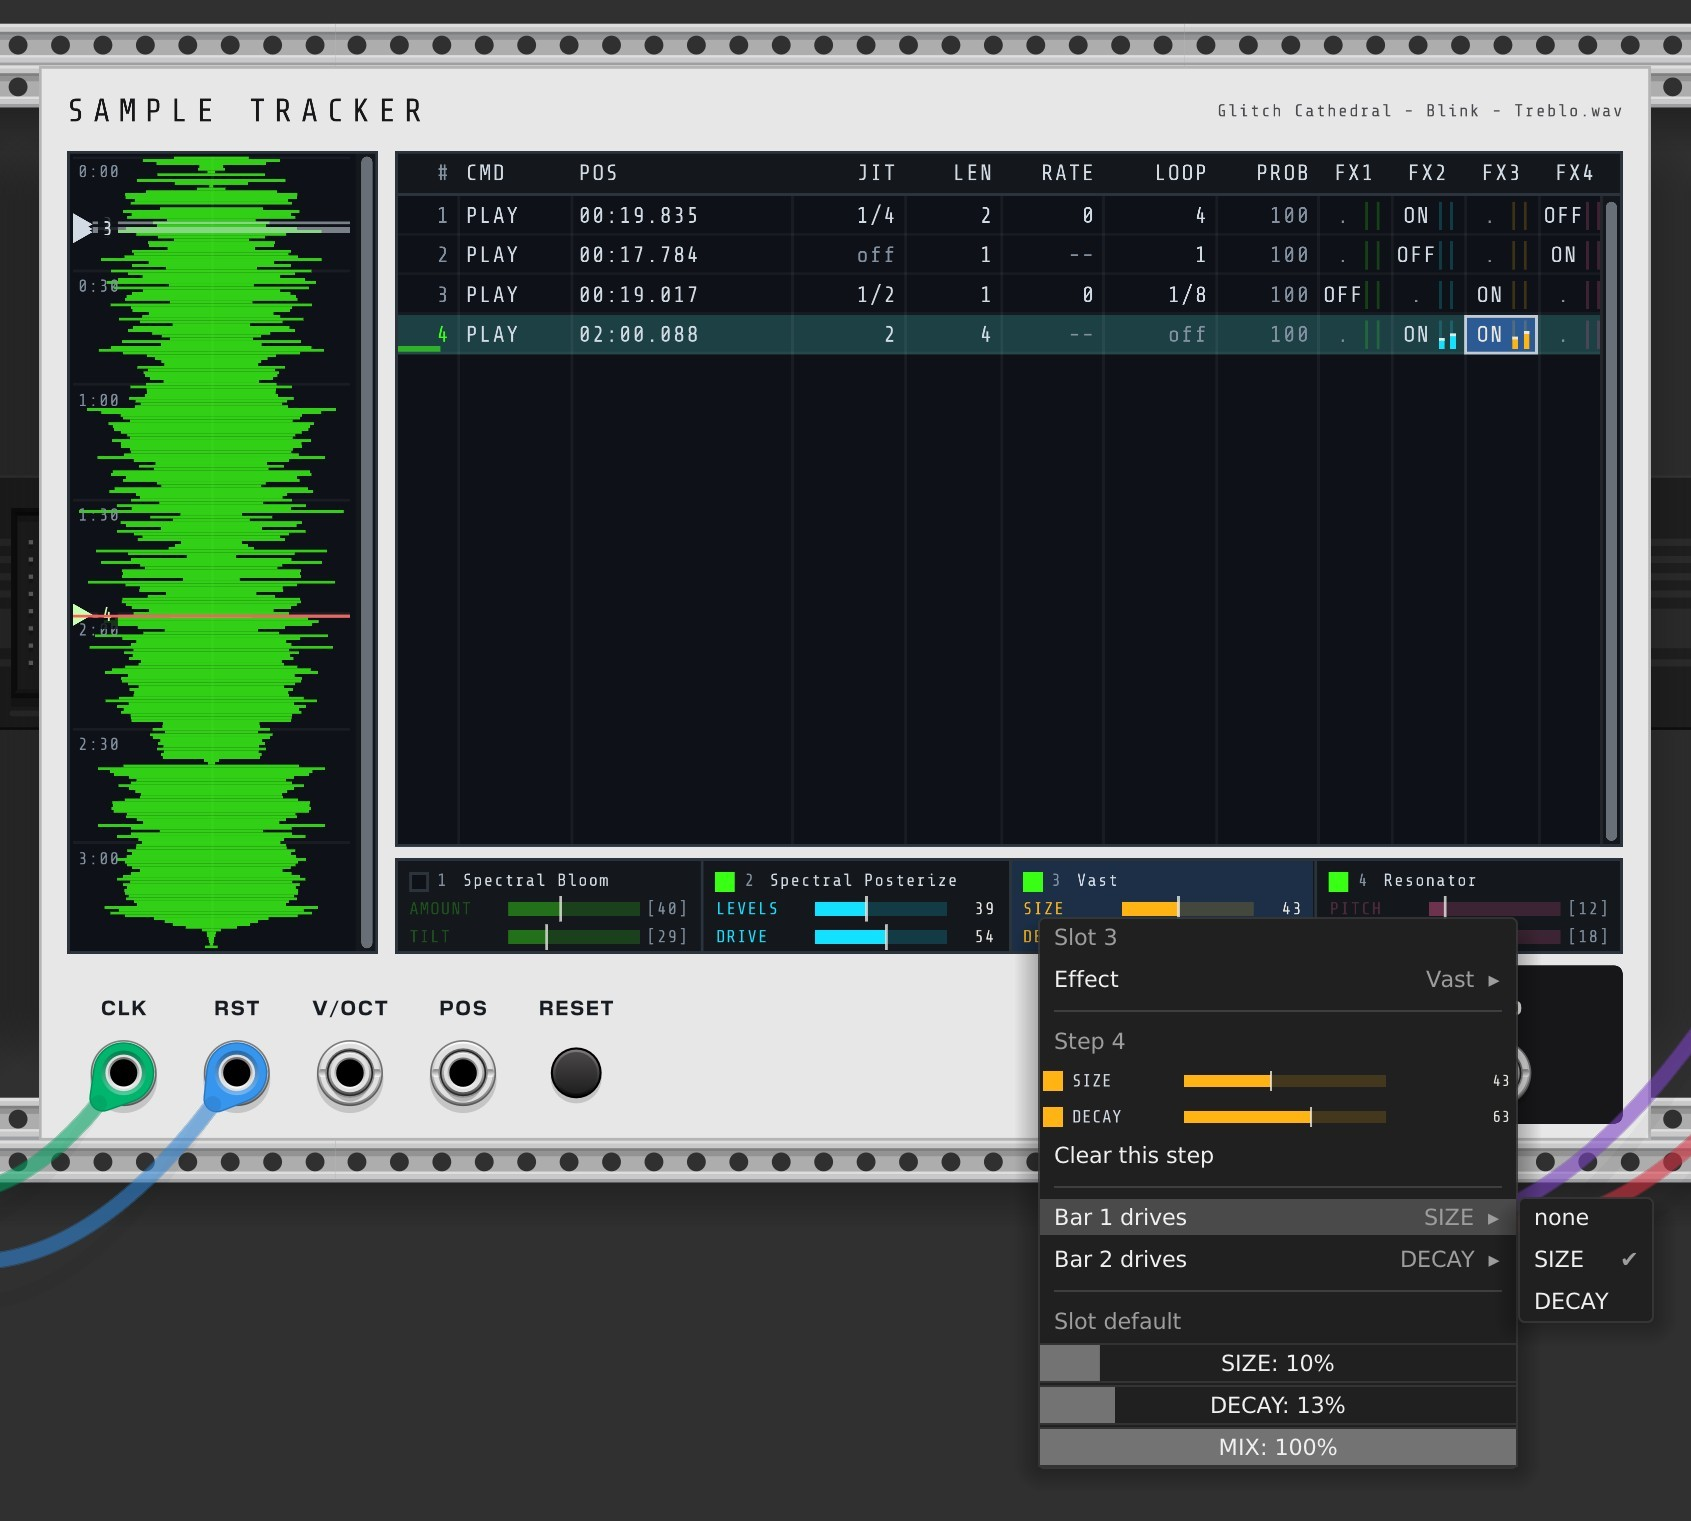
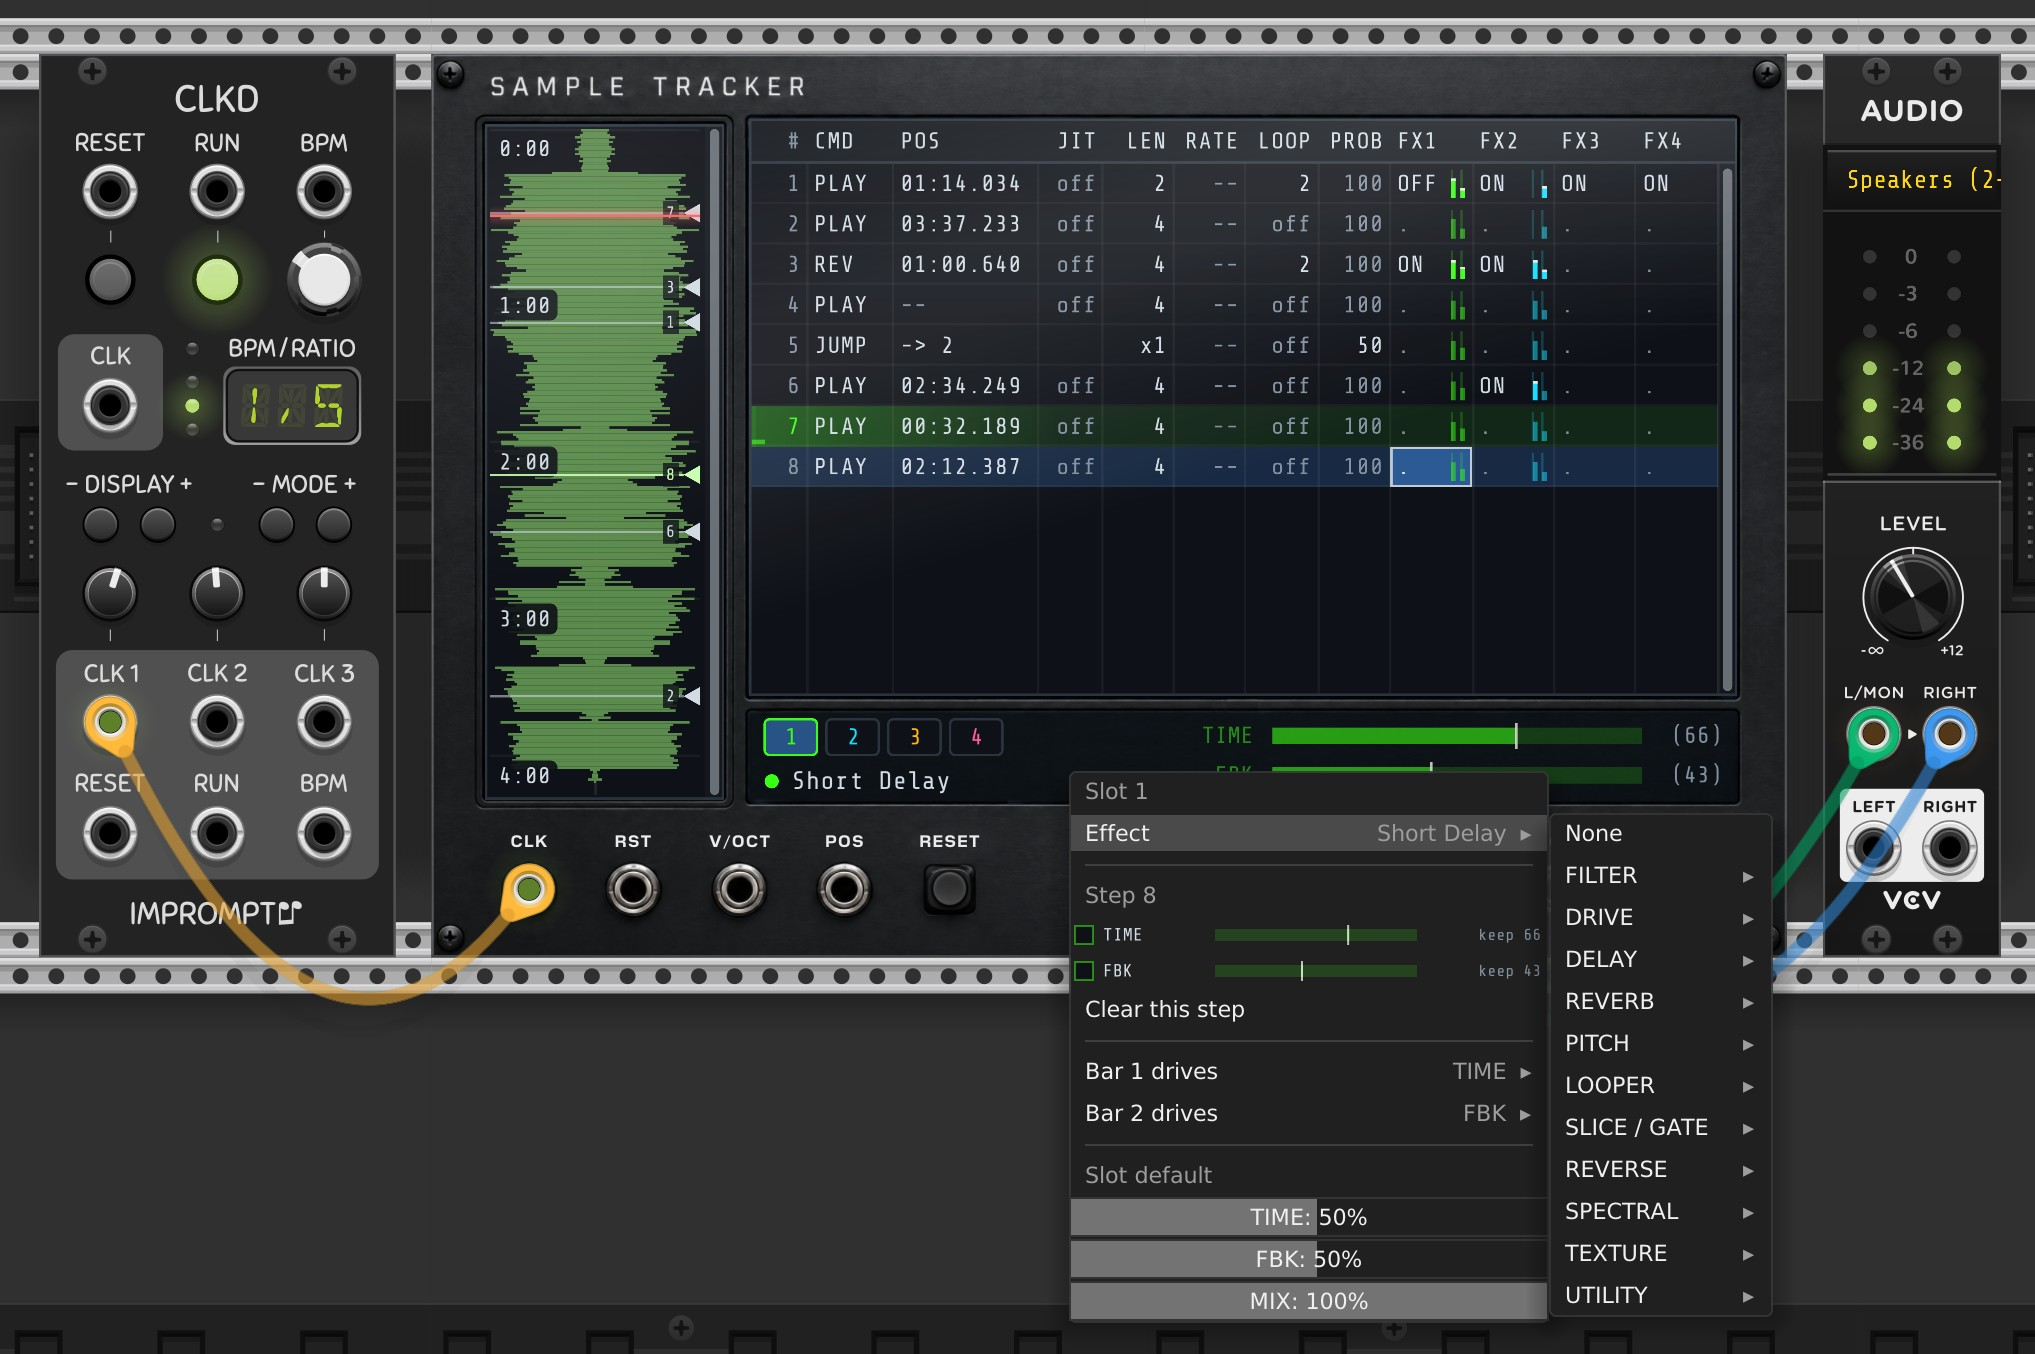
Sample Tracker: new screenshots and the effects strip; Wyrm: poly input, Voices, keyboard, arpeggiator

diff --git a/docs/modules/wyrm/user_manual.md b/docs/modules/wyrm/user_manual.md
@@ -83,8 +83,8 @@ Which tab is showing is not saved with the patch. Wyrm opens on the Oscillators 
 
 The jacks run along the bottom of the panel. They never hide.
 
-- **V/OCT**: pitch, 1 volt per octave. `0 V` plays middle C. Reads one channel.
-- **GATE**: starts a note when the voltage rises above `1 V`. Releases it when the voltage falls below `0.1 V`. Reads one channel.
+- **V/OCT**: pitch, 1 volt per octave. `0 V` plays middle C. Polyphonic: each channel pairs with the same channel of GATE.
+- **GATE**: starts a note when the voltage rises above `1 V`. Releases it when the voltage falls below `0.1 V`. Polyphonic: the number of channels on this cable is the number of notes Wyrm plays.
 - **CV 1** to **CV 4**: four modulation inputs. They do nothing until you route them in the Mod Matrix.
 - **CLOCK**: a tempo input. One pulse is one quarter note.
 - **RESET**: re-aligns every modulator.
@@ -110,7 +110,9 @@ Right-click anywhere on the panel to reach Rack's context menu.
 
 Patch a pitch source into **V/OCT** and a gate into **GATE**.
 
-Wyrm reads the first channel of both jacks. A polyphonic cable from a MIDI-CV module plays one note, not six. The eight internal voices are not Rack's polyphony. They exist so a released note can finish fading under the next one.
+Both jacks are polyphonic. A polyphonic cable from a MIDI-CV module plays chords: the GATE cable's channel count sets how many notes Wyrm reads, and V/OCT follows it channel for channel. A mono V/OCT cable feeds every channel. Up to six notes sound at once, or fewer if you lower the **Voices** setting on the Performance tab. The eight internal voices are not Rack's polyphony; the two spares let a released note finish fading under the next one.
+
+You can also play from the keyboard on the Performance tab. Click a key to play it, drag for a glissando, and Shift-click keys to build a chord of up to eight notes that stays held until a plain click clears it. The keyboard plays alongside the jacks.
 
 ### Voice modes
 
@@ -118,11 +120,13 @@ Set the mode with the **VOICE** select in the jack row, or on the Performance ta
 
 | Mode | What it does |
 |---|---|
-| `poly` | Up to six notes sound at once. One gate jack can only start one at a time, so in Rack this mostly lengthens the overlap between notes. |
-| `mono` | One note at a time. Each gate re-articulates the envelopes. |
-| `legato` | One note at a time. A new note under a held gate does not re-articulate. |
+| `poly` | Up to six notes sound at once, from a polyphonic cable, the keyboard chord, or both. |
+| `mono` | One note at a time, the newest. Releasing it falls back to the newest note still held and re-articulates there. |
+| `legato` | One note at a time, the newest. A new note under a held note slides instead of re-articulating, and so does the fall-back. |
 
 Changing the mode stops every sounding note.
+
+**Voices**, under the mode on the Performance tab, caps how many notes sound at once, from 1 to 6. Release tails count toward the cap, so a lower setting bounds the CPU Wyrm uses. Lowering it while notes sound fades the surplus out.
 
 ### Glide
 
@@ -444,9 +448,20 @@ The limit is the bus, not the source. Voltages are clamped at `±10 V`. A source
 
 ## The Performance tab
 
-**Voice** sets the voice mode. It is the same control as the VOICE select in the jack row.
+**Glide**: **Rising Time** and **Falling Time** set the glide, as described under "Playing" above. Each has three shape buttons beside it for its curve.
 
-**Rising Time** and **Falling Time** set the glide, as described under "Playing" above. Each has a curve display and three shape buttons.
+**Voice**: **Mode** sets the voice mode. **Voices** caps how many notes sound at once, 1 to 6.
+
+**Arpeggiator**: an arpeggiator in the style of the JP-8000. It takes every held note, from the cables and the keyboard alike, and plays them one at a time.
+
+- **On** turns it on. While it is on, held notes feed the arpeggiator instead of sounding directly.
+- **Mode**: `up`, `down`, `up & down` or `random`. Notes always play in order of pitch, never in the order you pressed them.
+- **Range**: 1 to 4 octaves. The chord is repeated an octave higher for each step of range.
+- **Hold** keeps the last chord playing after you let go. A new note replaces it.
+- **Rate**: the step length, as a division of the tempo: 1/4, 1/6, 1/8, 1/12, 1/16 or 1/32. The tempo comes from the BPM setting or the CLOCK jack, and a RESET pulse restarts the pattern from its first step.
+- **Pattern**: the rhythm. `Straight` plays every step with a half-step gate. The others add rests, short or held notes, and accents: `Accent`, `Offbeat`, `Dotted`, `Gallop`, `Echo`, `Mute`, `Strum`, `Percussion`, `Sequence` and `Random`. Accents play at full velocity and plain steps at 70 percent, so they are audible only when the patch uses velocity.
+
+**Keyboard**: a piano strip across the bottom of the tab. Click to play, drag for a glissando, Shift-click to toggle keys into a held chord, and use the arrows at the card's top right to move up or down an octave.
 
 ***
 

diff --git a/docs/modules/sample-tracker/user_manual.md b/docs/modules/sample-tracker/user_manual.md
@@ -26,7 +26,7 @@ There are a lot of ways to interact with the grid, from typing in values directl
 Here are a few more quick tips, just in case you want to jump in without reading the rest of this manual:
 
 * It's possible to multi-select and copy/paste rows.  
-* There are four effect slots.  Selecting and adjusting effects is done by right-clicking one of the four effects sections underneath the main tracker table.  Enabling or disabling effects is done through the FX1, FX2, FX3, and FX4 columns in the tracker table.
+* There are four effect slots.  The effects strip underneath the main tracker table shows one slot at a time: click a numbered chip (1 to 4) to choose the slot, and right-click the strip to select and adjust that slot's effect.  Enabling or disabling effects is done through the FX1, FX2, FX3, and FX4 columns in the tracker table.
 
 
 # Inputs and Outputs
@@ -203,11 +203,11 @@ Row FX cell options are:
 - ON: Enable the effect
 - OFF: Disable the effect.
 
-The four effects slots directly under the main sequencer are used to select which effect is assigned to the slot, and select the parameters for the effect (which vary depending on effect).
+The effects strip directly under the main sequencer shows one slot at a time.  The four numbered chips at its left choose the slot; the strip follows the sequencer cursor too, so putting the cursor in the FX2 column shows slot 2.  A lit chip number means that slot's effect is currently on.  To the right of the chips are the slot's effect name, with a lamp that lights while the effect is running, and the two parameter bars with their values for the row the cursor is on.
 
 ## Choosing an effect
 
-Right-click (or left-click) a slot cell to open its context menu. Under Effect, select the effect to assign to the slot, or choose None.
+Click a chip to choose the slot, then right-click (or left-click) anywhere else in the strip to open its context menu. Under Effect, select the effect to assign to the slot, or choose None.
 
 ## The two value bars
 
